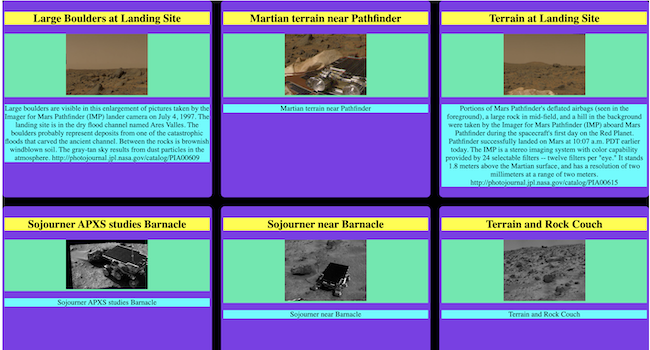
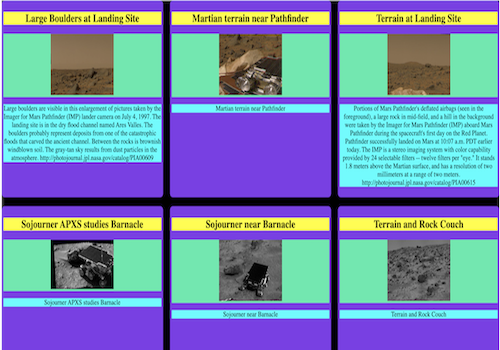
fix nested grids

diff --git a/index.html b/index.html
@@ -17,87 +17,105 @@
     <div class="container">
         <section class="intro">
             <h1>Hello! I'm Kit Sidhu.</h1>
-            <p>I’m a full stack developer with a keen eye for clean and efficient code.</p>
+            <p>Full stack developer with a keen eye for clean and efficient code.</p>
         </section>
         <section class="portfolio">
             <h2>My Portfolio</h2>
-            <div class="projects">
-                <article>
-                    <img src="images/virtual-pets-amok.png" alt="virtual pets amok project">
-                    <h3>Virtyal Pets Amok</h3>
-                    <p>A console game where a virtual pet shelter has gone amok and needs a kind dedicated volunteer to
+            <!-- <div > -->
+            <article class="projects">
+                <img src="images/virtual-pets-amok.png" alt="virtual pets amok project">
+                <div class="description">
+                    <h3>Virtual Pets Amok</h3>
+                    <p>A console game where a virtual pet shelter has gone amok and needs a kind dedicated volunteer
+                        to
                         help
-                        bring it back to order. The virtual and robotic pets need feeding, watering, playing, walking,
+                        bring it back to order. The virtual and robotic pets need feeding, watering, playing,
+                        walking,
                         and
-                        oiling. This project is coded in Java with TDD and demonstrates the fundamental concepts of OOP
+                        oiling. This project is coded in Java with TDD and demonstrates the fundamental concepts of
+                        OOP
                         described by the acronym APIE.</p>
-                </article>
-                <article>
-                    <img src="images/world-trekking.png" alt="world trekking project">
+                </div>
+            </article>
+            <article class="projects">
+                <img src="images/world-trekking.png" alt="world trekking project">
+                <div class="description">
                     <h3>World Trekking</h3>
-                    <p>A group project for a Spring JPA application that provides a list of worldwide treks offered per
+                    <p>A group project for a Spring JPA application that provides a list of worldwide treks offered
+                        per
                         continent and region,
-                        along with difficulty level. Skills demonstrated in this application include Spring Boot, Spring
+                        along with difficulty level. Skills demonstrated in this application include Spring Boot,
+                        Spring
                         JPA, OOP as described by the acronym APIE, MVC Design, HTML and CSS.</p>
-                </article>
-                <article>
-                    <img src="images/mystery-educator.png" alt="mysery educator project">
+                </div>
+            </article>
+            <article class="projects">
+                <img src="images/mystery-educator.png" alt="mysery educator project">
+                <div class="description">
                     <h3>Mystery Educator</h3>
-                    <p>A single page application for an organization that specializes in offering niche adventures for
+                    <p>A single page application for an organization that specializes in offering niche adventures
+                        for
                         children aged 6 - 13 to learn about science and art. The application pulls data from the
                         publicly
                         available NASA and Metropolitan Museum of Art APIs. Skills demonstrated in this application
                         include
-                        working with APIs, Javascript, Java, HTML and CSS.
+                        working with APIs, Javascript, Java, HTML and CSS.</p>
+                </div>
+            </article>
+            <!-- </div> -->
+        </section>
+        <section class="about">
+            <h2>About Me</h2>
+            <div class="about-content">
+                <article class="left-about">
+                    <ul class="about-list">
+                        <li>Problem solver</li>
+                        <li>Collaborator</li>
+                        <li>Clean coder</li>
+                        <li>Underwater twirler</li>
+                        <li>Funny maker</li>
+                    </ul>
+                </article>
+                <article class="right-about">
+                    <p class="bold-text">I love to solve problems & want
+                        to make things that matter.</p>
+                    <p class="regular-text">I care about making the world a better place, whether it’s in one small
+                        corner
+                        or on a global scale. It’s on all of us to preserve what is good and help what is in need. I
+                        cherish
+                        the beauty in nature
+                        and life. Aside from coding, some of my favorite activities include meditating, scuba diving,
+                        kayaking, running, reading, gardening, and cooking. Oh, and I love a good laugh... if
+                        you like the knights who say Ni or wafer-thin mints, please say hello! Even if you don't, I
+                        enjoy friendly hellos.</p>
                     </p>
                 </article>
             </div>
         </section>
-        <section class="about">
-            <h2>About Me</h2>
-            <article class="left-about">
-                <ol>
-                    <li>Problem solver</li>
-                    <li>Collaborator</li>
-                    <li>Clean coder</li>
-                    <li>Underwater twirler</li>
-                    <li>Funny maker</li>
-                    </ul>
-            </article>
-            <article class="right-about">
-                <p class="bold-text">I love to solve problems & want
-                    to make things that matter.</p>
-                <p class="regular-text">I care about making the world a better place, whether it’s in one small corner
-                    or on a global scale. It’s on all of us to preserve what is good and help what is in need. I cherish
-                    the beauty in nature
-                    and life. Aside from coding, some of my favorite activities include meditating, scuba diving,
-                    kayaking, running, reading, gardening, and cooking. Oh, and I love a good laugh... if
-                    you like the knights who say Ni or wafer-thin mints, please say hello! Even if you don't, I
-                    enjoy friendly hellos.</p>
-                </p>
-            </article>
-        </section>
         <section class="contact">
             <h2>Let's connect</h2>
-            <article>
-                <h3>Hire me</h3>
-                <p>828-782-3068<br>
-                    hello@kitsi.io</p>
-            </article>
-            <article>
-                <h3>Follow me</h3>
-                <a href="https://twitter.com/kitsiistik"><img src="images/twitter.png" alt="twitter"></a>
-                <a href="https://www.linkedin.com/in/kitsidhu/"><img src="images/github.png" alt="github"></a>
-                <a href="https://www.linkedin.com/in/kitsidhu/"><img src="images/linkedin.png" alt="linked in"></a>
-                <p></p>
-            </article>
-            <article>
-                <h3>Meet me</h3>
-                <p>Columbus, OH, USA<br>
-                    Join me at a virtual or in person meetup!</p>
-                <p></p>
-                <small>&copy 2021 | Kit Sidhu</small>
-            </article>
+            <div class="contact-sections">
+                <article class="contact-article">
+                    <h3>Hire me</h3>
+                    <p>828-782-3068<br>
+                        hello@kitsi.io</p>
+                </article>
+                <article class="contact-article">
+                    <h3>Follow me</h3>
+                    <a href="https://twitter.com/kitsiistik"><img src="images/twitter.png" alt="twitter"></a>
+                    <a href="https://www.linkedin.com/in/kitsidhu/"><img src="images/github.png" alt="github"></a>
+                    <a href="https://www.linkedin.com/in/kitsidhu/"><img src="images/linkedin.png" alt="linked in"></a>
+                    <p></p>
+                </article>
+                <article class="contact-article">
+                    <h3>Meet me</h3>
+                    <p>Columbus, OH, USA<br>
+                        Join me at a virtual or in person meetup!</p>
+                    <p></p>
+
+                </article>
+            </div>
+            <small>&copy 2021 | Kit Sidhu</small>
         </section>
     </div>
 </body>

diff --git a/style.css b/style.css
@@ -10,93 +10,155 @@
     --section-title-size: 2.5rem;
     --section-subtitle-size: 2rem;
 
-    --section-text-size: 2rem;
+    --section-text-size: 1.4rem;
 
     --heading-font: 'Roboto Slab', serif;
     --text-font: 'Roboto', sans-serif;
-  }
+}
 
-  .bold {
-    font-style: bold;
-  }
+body {
+  background-color: grey;
+  margin: 0;
+}
 
-  .container {
-      display: grid;
-      grid-template-columns: repeat(6, 1fr);
-      grid-template-rows: repeat(9, 1fr);
-      background-color: black;
-      max-width: 1200px;
-      margin: 0 auto;
-  }
+.bold {
+  font-style: bold;
+}
 
-  .intro {
-    background-image: url('images/background-image.png');
-    grid-column: 1 / span 6;
-    grid-row: 1 / span 2;
-    height: 800px;
-  }
+.container {
+    display: grid;
+    grid-template-columns: repeat(6, 1fr);
+    /* grid-template-rows: repeat(9, 1fr); */
+    background-color: black;
+    max-width: 1200px;
+    max-height: 3300px;
+    margin: 0 auto;
+}
 
-  h1 {
-    color: var(--color-intro-heading);
-    font-family: var(--heading-font);
-    font-size: var(--intro-heading-size);
-    margin: 20rem auto 0 auto;
-    width: 55%;
-    padding-left: 10rem;
-    /* height: 50%; */
-  }
+.intro {
+  background-image: url('images/background-image.png');
+  grid-column: 1 / span 6;
+  /* grid-row: auto / span 2; */
+  height: 800px;
+  margin: 0 auto;
+}
 
-  .intro p {
-    color: var(--color-dark);
-    font-family: var(--text-font);
-    font-size: var(--intro-text-size);
-    margin: 1rem auto 0 auto;
-    width: 60%;
-    padding-top: 1rem;
-    padding-left: 9rem;
-  }
+h1 {
+  color: var(--color-intro-heading);
+  font-family: var(--heading-font);
+  font-size: var(--intro-heading-size);
+  margin: 20rem auto 0 auto;
+  width: 55%;
+  padding-left: 10rem;
+  /* height: 50%; */
+}
 
-  .portfolio {
-    color: var(--text-color-dark);
-    background-color: #ffffff;
-    grid-column: 1 / span 6;
-    grid-row: 3 / span 4;
-    height: 1600px;
-  }
+.intro p {
+  color: var(--color-dark);
+  font-family: var(--text-font);
+  font-size: var(--intro-text-size);
+  margin: 1rem auto 0 auto;
+  width: 60%;
+  padding-top: 1rem;
+  padding-left: 9rem;
+}
 
-  article img {
-    max-width: 500px;
-    max-height: 350px;
-  }
+.portfolio {
+  color: var(--text-color-dark);
+  background-color: #ffffff;
+  grid-column: 1 / span 6;
+  /* grid-row: 3 / span 4; */
+  max-height: 1450px;
+  margin: 0 auto;
+}
 
-  h2 {
-    color: var(--color-dark);
-    font-family: var(--heading-font);
-    font-size: var(--section-title-size);
-    margin: 2rem auto;
-    /* padding: 0 auto; */
-    width: 20%;
-    /* padding-left: 10rem; */
-  }
+.portfolio h2, .portfolio h3, .portfolio p {
+  color: var(--color-dark);
+}
 
-  .about {
-    background-color: #087e8b;
-    grid-column: 1 / span 6;
-    grid-row: 7 / span 2;
-    height: 650px;
-  }
+h2 {
+  /* grid-column: 1 / span 6; */
+  font-family: var(--heading-font);
+  font-size: var(--section-title-size);
+  margin: 2rem auto;
+  /* padding: 0 auto; */
+  width: 20%;
+  /* padding-left: 10rem; */
+}
 
-  p.bold-text {
-    font-family: var(--heading-font);
-  }
+h3 {
+  /* grid-column: 1 / span 6; */
+  font-family: var(--heading-font);
+  font-size: var(--section-text-size);
+  /* margin: 2rem auto; */
+  /* padding: 0 auto; */
+  width: 20%;
+  /* padding-left: 10rem; */
+}
 
-  p.regular-text {
-    font-family: var(--text-font);
-  }
+p, ul {
+  /* grid-column: 1 / span 6; */
+  font-family: var(--text-font);
+  font-size: var(--section-text-size);
+  /* margin: 2rem auto; */
+  /* padding: 0 auto; */
+  /* width: 20%; */
+  /* padding-left: 10rem; */
+}
 
-  .contact {
-    background-color: #095156;
-    grid-column: 1 / span 6;
-    grid-row: 8 / span1;
-    height: 650px;
-  }
+.projects {
+  display: grid;
+  grid-template-columns: repeat(2, 1fr);
+}
+
+article img {
+  max-width: 500px;
+  max-height: 350px;
+  border: 2px solid #555;
+}
+
+article.description {
+}
+
+.about {
+  background-color: #087e8b;
+  grid-column: 1 / span 6;
+  /* grid-row: auto / span 2; */
+  max-height: 650px;
+  margin: 0 auto;
+}
+
+.about, .contact {
+  color: var(--color-white);
+}
+
+.about-content {
+  display: grid;
+  grid-template-columns: repeat(2, 1fr);
+}
+
+p.bold-text {
+  font-family: var(--heading-font);
+}
+
+p.regular-text, .about-list {
+  font-family: var(--text-font);
+}
+
+.contact {
+  background-color: #095156;
+  grid-column: 1 / span 6;
+  /* grid-row: auto / span1; */
+  max-height: 400px;
+  margin: 0 auto;
+}
+
+.contact-sections {
+  display: grid;
+  /* grid-template-columns: 1fr 1fr 1fr; */
+  grid-template-columns: repeat(3, 1fr);
+}
+
+.contact-article {
+  margin: 0 auto;
+}
